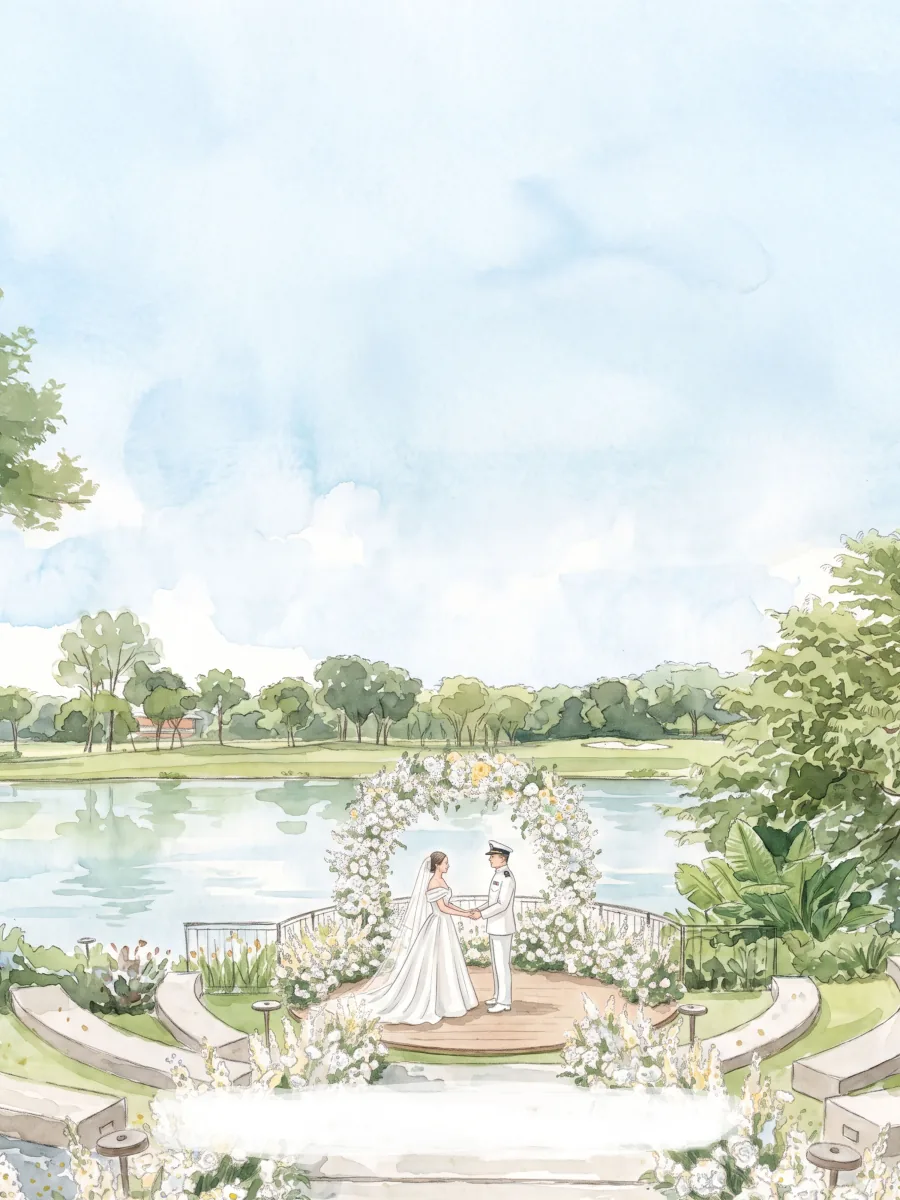
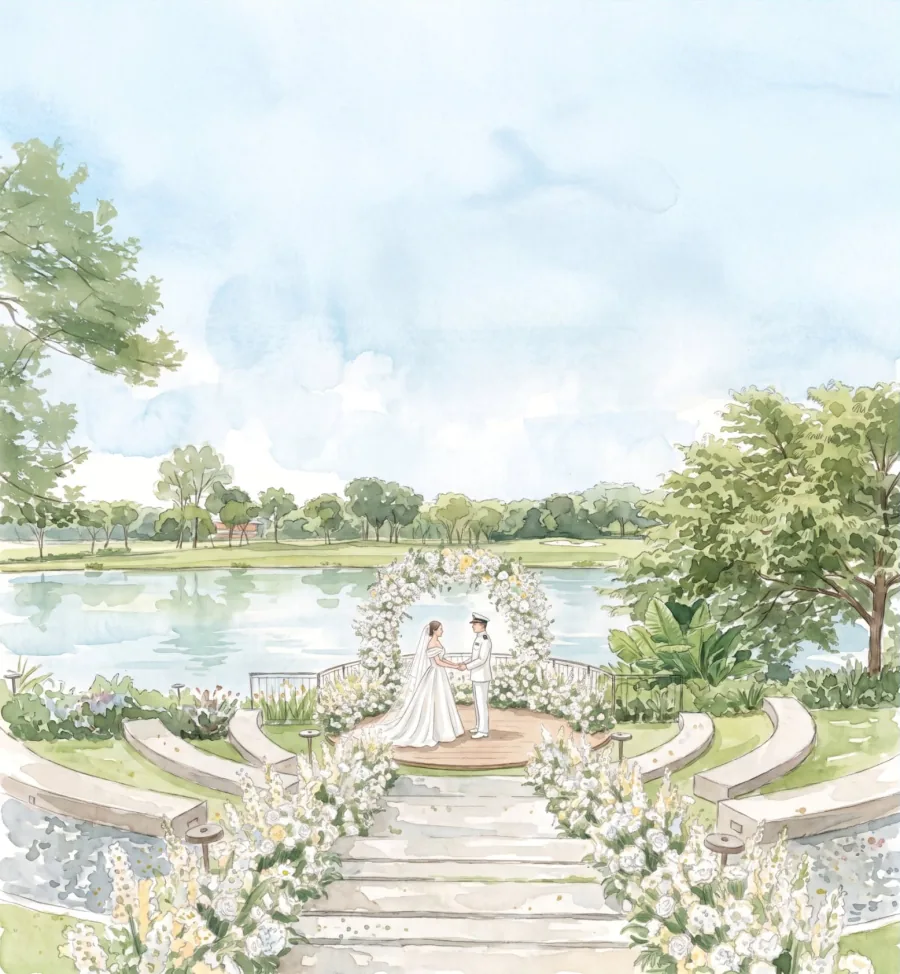
Working progress

diff --git a/app/globals.css b/app/globals.css
@@ -149,56 +149,64 @@ a { color: inherit; }
 /* Positions mirror the printed save-the-date; cqi keeps them locked to the artwork at any width. */
 .hero__text {
   position: absolute;
-  inset: 8.6cqi 0 auto 0;
+  inset: 6cqi 0 auto 0;
   display: grid;
   justify-items: center;
   text-align: center;
   color: var(--color-ink);
 }
 
+/* The text block must end above the tree line at ~53cqi. */
 .hero__kicker {
-  font-size: 4.3cqi;
+  font-size: 3cqi;
   letter-spacing: 0.09em;
   line-height: 1;
 }
 
 .hero__names {
-  width: 80cqi;
-  margin-top: 4.6cqi;
-  margin-left: 1.5cqi;
+  width: 50cqi;
+  margin-top: 3cqi;
+  margin-left: 1cqi;
 }
 
 .hero__date {
-  margin-top: 4cqi;
-  font-size: 5.6cqi;
+  margin-top: 2.6cqi;
+  font-size: 3.8cqi;
   letter-spacing: 0.1em;
   line-height: 1;
   font-variant-numeric: lining-nums;
 }
 
 .hero__venue {
-  margin-top: 3.4cqi;
-  font-size: 3cqi;
+  margin-top: 2.4cqi;
+  font-size: 2.1cqi;
   letter-spacing: 0.1em;
-  line-height: 1.65;
+  line-height: 1.6;
 }
 
+/* Sits on the steps below the couple; the soft wash keeps it legible over the flowers. */
 .hero__banner {
   position: absolute;
-  left: 0;
-  right: 0;
-  top: 122.8cqi;
+  inset-inline: 0;
+  top: 94.5cqi;
+  width: fit-content;
+  margin-inline: auto;
+  padding: 1.2cqi 5cqi;
   text-align: center;
-  font-size: 2.8cqi;
+  font-size: 2.2cqi;
   letter-spacing: 0.1em;
+  line-height: 1;
   color: var(--color-ink);
+  background: radial-gradient(closest-side, rgb(255 255 255 / 0.85), rgb(255 255 255 / 0.55) 65%, transparent);
 }
 
 @media (max-width: 30rem) {
-  .hero__text { inset-block-start: 5cqi; }
-  .hero__kicker { font-size: 4.6cqi; }
-  .hero__venue { font-size: 4cqi; letter-spacing: 0.06em; line-height: 1.5; }
-  .hero__banner { font-size: 3.6cqi; letter-spacing: 0.06em; }
+  .hero__text { inset-block-start: 4cqi; }
+  .hero__kicker { font-size: 4.2cqi; }
+  .hero__names { width: 48cqi; }
+  .hero__date { font-size: 5cqi; }
+  .hero__venue { font-size: 3.2cqi; letter-spacing: 0.06em; line-height: 1.45; }
+  .hero__banner { font-size: 3.2cqi; letter-spacing: 0.06em; }
 }
 
 /* one orchestrated entrance */

diff --git a/app/page.tsx b/app/page.tsx
@@ -28,8 +28,8 @@ export default function Home() {
           <Image
             className="hero__art"
             src="/assets/hero-art.webp"
-            width={1800}
-            height={2400}
+            width={1556}
+            height={1684}
             sizes="(min-width: 54rem) 52rem, 100vw"
             priority
             alt="Watercolour of a bride and groom in a naval dress uniform beneath a white floral arch, on a round stage beside the lake at Nena’s Sanctuary."

diff --git a/tools/build-assets.py b/tools/build-assets.py
@@ -54,8 +54,10 @@ sky_only = np.zeros_like(m4)
 sky_only[: int(530 * S)] = 1
 clean = (clean * (1 - m4 * sky_only) + blurred * (m4 * sky_only)).astype(np.uint8)
 
-save_webp(clean, "hero-art.webp", 1800)
-save_webp(clean, "hero-art-sm.webp", 900)
+# hero uses the wider repaint; trim its 2px blue frame on the top and right edges
+wide = load("wider-hero.jpg")[2:, :-2]
+save_webp(wide, "hero-art.webp", 1800, 86)
+save_webp(wide, "hero-art-sm.webp", 900)
 # soft watercolour sky band (no scenery) for section backgrounds
 save_webp(clean[int(10 * S): int(400 * S), int(100 * S):], "sky.webp", 1600, 78)
 
